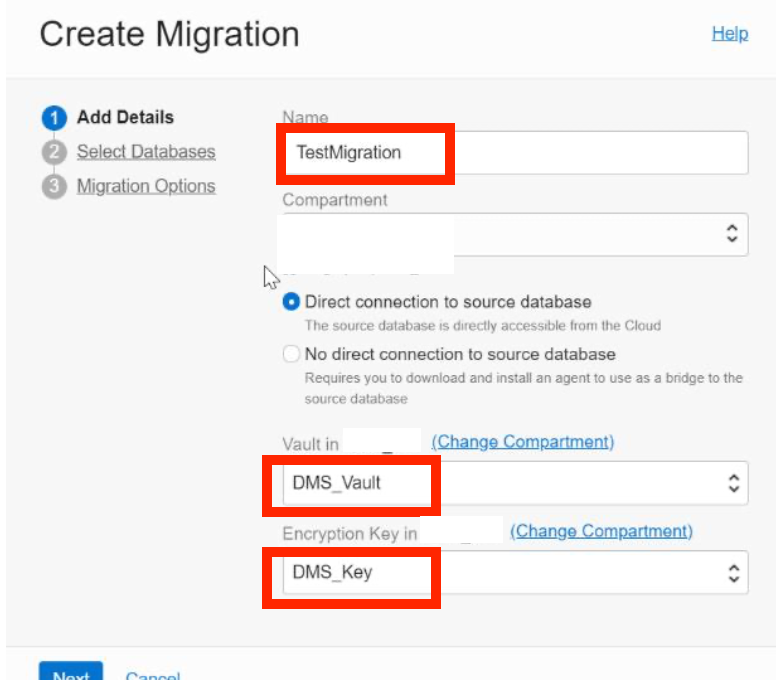
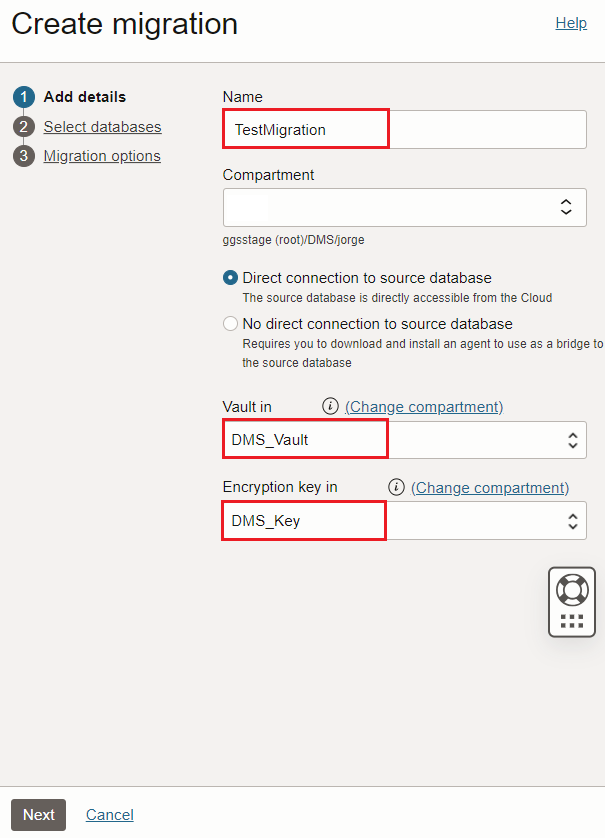
Functionality updated on WMS ID 6081 (#448)
* Removed one underscore

* Update validate-and-run-terraform.md

fixing one word

* QA completed

* Regular QA fixes

* Update validate-migration.md

Making some steps optional

* Changes on VCN name and added CPAT functionality

* Changes to reflect new functionality and navigation

* Changing the fist capital of an image

* Update introduction.md

* New features implemented and content change required

Registered databases now called Database Connections
GoldenGate Marketplace is replaced by GoldenGate service
ADB is now accessed thru the source base database

* Update manifest.json

updates lab number in manifest

* functionality updated

-Registered databases now is called Database connections
-SSH details are not needed in this lab
-ACL and SSL wallet steps added

diff --git a/dms/register-and-migrate/create-registered-databases.md b/dms/register-and-migrate/create-registered-databases.md
@@ -1,17 +1,17 @@
-# Create Registered Databases
+# Create Database Connections
 
 ## Introduction
 
-This lab walks you through the steps to register a database for use with DMS. Registered database resources enable networking and connectivity for the source and target databases
+This lab walks you through the steps to create a database connection to use with DMS. Database connection resources enable networking and connectivity for the source and target databases.
 
 Estimated Lab Time: 20 minutes
 
 ### Objectives
 
 In this lab, you will:
-* Create Registered Database for Source CDB
-* Create Registered Database for Source PDB
-* Create Registered Database for Target ADB
+* Create a database connection for Source CDB
+* Create a database connection for Source PDB
+* Create a database connection for Target ADB
 * Create a Migration
 
 ### Prerequisites
@@ -25,20 +25,20 @@ In this lab, you will:
 
 *Note: If you have a **Free Trial** account, when your Free Trial expires your account will be converted to an **Always Free** account. You will not be able to conduct Free Tier workshops unless the Always Free environment is available. **[Click here for the Free Tier FAQ page.](https://www.oracle.com/cloud/free/faq.html)***
 
-## Task 1: Create Registered Database for Source CDB
+## Task 1: Create a Database Connection for Source CDB
 
 For this task you need the following info from previous steps:
 * Source DB Private IP
 * Source DB CDB Service Name
 * Database Administrator Password
 
-1. In the OCI Console Menu ![menu hamburger](images/hamburger.png =22x22), go to **Migration & Disaster Recovery > Database Migration > Registered Databases**
+1. In the OCI Console Menu ![menu hamburger](images/hamburger.png =22x22), go to **Migration & Disaster Recovery > Database Migration > Database Connections**
 
-  ![registered database navigation](images/registered-db.png =90%x*)
+  ![registered database navigation](images/db-connection.png =50%x*)
 
-2. Press **Register Database**
+2. Press **Create Connection**
 
-  ![click Register Database](images/1-2.png =90%x*)
+  ![Screenshot of click register db](images/click-create-db.png =50%x*)
 
 3. On the page Database Details, fill in the following entries, otherwise leave defaults:
     - Name: **SourceCDB**
@@ -49,38 +49,36 @@ For this task you need the following info from previous steps:
     - Database: **sourcedb**
     - Connect String: Change existing string by replacing the qualified hostname with the **private IP** of the database node, for example:
         - **10.0.0.3**:1521/sourcedb_iad158.sub12062328210.vcndmsla.oraclevcn.com
-    - Subnet: Pick the Subnet that the DB is located in
+    - Subnet: Pick the Subnet that the DB is in
 
 4. Press **Next**
 
-  ![enter database details](images/1-4.png =50%x*)
+  ![Screenshot of register DB details and click next](images/create-db-next.png =50%x*)
 
 5. On the page Connection Details, fill in the following entries, otherwise leave defaults:
-    - Database Administrator Username: **system**
-    - Database Administrator Password: <*Admin password*>
-    - SSH Database Server Hostname: <*DB Node Private IP Address*>
-    - SSH Private Key: Select private key file
-    - SSH Username: **opc**
-    - SSH Sudo Location: **/usr/bin/sudo**
+    - Initial load database username: **system**
+    - Initial load database password: <*Admin password*>
+    - Dont Check **Use different credentials for replication**
 
-6. Press **Register**
+    
+6. Press **Create**
 
-  ![enter connection details](images/1-6.png =50%x*)
+  ![Screenshot confirm DB connection cration](images/create-db-confirm-initial-load.png =40%x*)
 
-## Task 2: Create Registered Database for Source PDB
+## Task 2: Create Database Connection for Source PDB
 
 For this task you need the following info from previous steps:
 * Source DB Private IP
 * Source DB PDB Service Name
 * Database Administrator Password
 
-1. In the OCI Console Menu ![hamburger icon](images/hamburger.png =22x22), go to **Migration & Disaster Recovery > Database Migration > Registered Databases**
+1. In the OCI Console Menu ![menu hamburger](images/hamburger.png =22x22), go to **Migration & Disaster Recovery > Database Migration > Database Connections**
 
-  ![registered database navigation](images/registered-db.png =90%x*)
+  ![registered database navigation](images/db-connection.png =50%x*)
 
-2. Press **Register Database**
+2. Press **Create connection**
 
-  ![click Register Database](images/1-2.png =90%x*)
+  ![Screenshot of click register db](images/click-create-db.png =50%x*)
 
 3. On the page Database Details, fill in the following entries, otherwise leave defaults:
     - Name: **SourcePDB**
@@ -95,32 +93,30 @@ For this task you need the following info from previous steps:
 
 4. Press **Next**
 
-  ![database details for PDB](images/2-4.png =50%x*)
+  ![Screenshot of register db](images/create-db-next-second.png =50%x*)
 
 5. On the page Connection Details, fill in the following entries, otherwise leave defaults:
-    - Database Administrator Username: **system**
-    - Database Administrator Password: <*Admin password*>
-    - SSH Database Server Hostname: <*DB Node Private IP Address*>
-    - SSH Private Key: Select **private** key file
-    - SSH Username: **opc**
-    - SSH Sudo Location: **/usr/bin/sudo**
+    - Initial load database username: **system**
+    - Initial load database password: <*Admin password*>
+    - Dont Check **Use different credentials for replication**
+    
 
-6. Press **Register**
+6. Press **Create**
 
-  ![connection details press register](images/1-6.png =50%x*)
+   ![Screenshot of  confirm register DB](images/create-db-confirm-initial-load.png =40%x*)
 
-## Task 3: Create Registered Database for Target ADB
+## Task 3: Create Database Connection for Target ADB
 
 For this task you need the following info from previous steps:
 * Database Administrator Password
 
-1. In the OCI Console Menu ![hamburger icon](images/hamburger.png =22x22), **Migration & Disaster Recovery > Database Migration > Registered Databases**
+1. In the OCI Console Menu ![menu hamburger](images/hamburger.png =22x22), go to **Migration & Disaster Recovery > Database Migration > Database Connections**
 
-  ![registered database navigation](images/registered-db.png =90%x*)
+  ![registered database navigation](images/db-connection.png =50%x*)
 
-2. Press **Register Database**
+2. Press **Create connection**
 
-  ![click Register Database](images/1-2.png =90%x*)
+   ![Screenshot of click register db](images/click-create-db.png =50%x*)
 
 3. On the page Database Details, fill in the following entries, otherwise leave defaults:
     - Name: **TargetATP**
@@ -131,43 +127,44 @@ For this task you need the following info from previous steps:
 
 4. Press **Next**
 
-  ![ATP database details](images/3-4.png =50%x*)
+  ![Screenshot of press next after entering details](images/target-press-next.png )
 
 5. On the page Connection Details, fill in the following entries, otherwise leave defaults:
-    - Database Administrator Username: **admin**
-    - Database Administrator Password: <*Admin password*>
+    - Initial load database username: **admin**
+    - Initial load database password: <*Admin password*>
+    - Dont Check **Use different credentials for replication**
 
-6. Press **Register**
+6. Press **Create**
 
-  ![connection details ATP](images/3-6.png =50%x*)
+  ![Screenshot of confirm db registration](images/confirm-target-connection-initial-load.png)
 
 
 ## Task 4: Create Migration
 
   1. In the OCI Console Menu ![hamburger icon](images/hamburger.png =22x22), go to **Migration & Disaster Recovery > Database Migration > Migrations**
 
-    ![create migration navigation](images/migration-create.png =90%x*)
+    ![create migration navigation](images/migration-create.png =50%x*)
 
   2. Press **Create Migration**
 
-    ![press create migration](images/2.png =90%x*)
+    ![Screenshot of press create migration](images/press-create-migration.png =50%x*)
 
   3. On the page **Add Details**, fill in the following entries, otherwise leave defaults:
       - Name: **TestMigration**
       - Vault: **DMS_Vault**
       - Encryption Key: **DMS_Key**
 
-      ![create migration details](images/add-details.png =40%x*)
+    ![Screenshot to add vault details](images/add-details.png )
 
   4. Press **Next**
 
   5. On the page **Select Databases**, fill in the following entries, otherwise leave defaults:
       - Source Database: **SourcePDB**
       - *Check* Database is pluggable database (PDB)
-      - Registered Container Database: **SourceCDB**
+      - Container Database connection: **SourceCDB**
       - Target Database: **TargetATP**
 
-      ![select databases](images/select-databases.png =40%x*)
+    ![Screenshot of source db selection](images/select-databases.png)
 
   6. On the page **Migration Options**, fill in the following entries, otherwise leave defaults:
       - In **Initial Load**, select **Datapump via Object Storage**
@@ -175,12 +172,14 @@ For this task you need the following info from previous steps:
       - Export Directory Object:
           - Name: **dumpdir**
           - Path: **/u01/app/oracle/dumpdir**
-      - *DO NOT Check* Use Online Replication
+      - Source Database file system SSL wallet path, we manually downloaded the required certificates in a previous lab:
+          - **/u01/app/oracle/dumpdir/wallet**
+      
+      - Dont Check **Use Online Replication**    
 
-          ![complete migration creation](images/Test-migration.png =40%x*)
-
-
-  7. Press **Create**
+      - Press Create to initiate the Migration creation    
+     
+    ![Screenshot for migration options](images/test-migration-1-offline.png )
 
 
 You may now [proceed to the next lab](#next).

diff --git a/dms/introduction/introduction.md b/dms/introduction/introduction.md
@@ -20,20 +20,21 @@ In the current release of DMS we support Oracle databases located on-premises, i
 |                  |  |     
 |--------------------------|-------------------------|
 | Source Databases | Oracle DB 11g, 12c, 18c, 19c, 21c: <br>on-premises, third-party cloud, OCI  |   
-| Target Databases | ADB serverless and dedicated <br> Co-managed Oracle Base Database (VM, BM)<br> Exadata on Oracle Public Cloud. |    
+| Target Databases | ADB serverless and dedicated <br> Co-managed Oracle Base Database (VM, BM)<br> Exadata on Oracle Public Cloud. |
+| Supported Source Environments | Oracle Cloud Infrastructure co-managed databases or on-premises environments<br>Amazon Web Services RDS Oracle Database<br> Linux-x86-64, IBM AIX<br>Oracle Solaris|        
 | Migration Modes  | Direct Access to Source <br>(VPN or Fast Connect) Indirect Access to Source <br>(Agent on Source Env) |                        |  
 | Initial Load <br> (Offline Migration) | Logical Migration using <br>Data Pump to Object Store <br>Data Pump using SQLnet |  |
-| Replication <br> (Online Migration) | GoldenGate Marketplace |
+| Replication <br> (Online Migration) | GoldenGate Integrated Service<br>GoldenGate Marketplace |
 
 The DMS service runs as a managed cloud service separate from the user's tenancy and resources. The service operates as a multitenant service in a DMS Service Tenancy and communicates with the user's resources using Private Endpoints (PEs). PEs are managed by DMS and are transparent to the user.
 
 ![DMS topology](images/dms-simplified-topology-2.png =80%x*)
 
-* **DMS Control Plane**: Used by DMS end user to manage Migration and Registered Database objects. The control plane is exposed through the DMS Console UI as well as the REST API.
+* **DMS Control Plane**: Used by DMS end user to manage Migration and Database Connection objects. The control plane is exposed through the DMS Console UI as well as the REST API.
 * **DMS Data Plane**: Managed by DMS Control Plane and transparent to the user. The GGS Data Plane manages ongoing migration jobs and communicates with the user's databases and GoldenGate instance using PEs. The DMS data plane does not store any customer data, as data flows through GoldenGate and Data Pump directly within the user's tenancy.
 * **Migration**: A Migration contains metadata for migrating one database. It contains information about source, target, and migration methods and is the central object for users to run migrations. After creating a migration, a user can validate the correctness of the environment and then run the migration to perform the copy of database data and schema metadata from source to target.
 * **Migration Job**: A Migration Job displays the state or a given Migration execution, either for validation or migration purposes. A job consists of a number of sequential phases, users can opt to wait after a given phase for user input to resume with the following phase.
-* **Registered Database**: A Registered Database represents information about a source or target database, such as connection and authentication credentials. DMS uses the OCI Vault to store credentials. A Registered Database is reusable across multiple Migrations.
+* **Database Connection**: A Database Connection represents information about a source or target database, such as connection and authentication credentials. DMS uses the OCI Vault to store credentials. A Database Connection is reusable across multiple Migrations.
 
 Estimated Lab Time: 180 minutes -- this estimate is for the entire workshop - it is the sum of the estimates provided for each of the labs included in the workshop.
 
@@ -46,7 +47,7 @@ In this lab, you will:
 * Create a Vault
 * Create Databases
 * Create an Object Storage Bucket
-* Create Registered Databases
+* Create Database Connections
 * Create, Validate, and Run a Migration
 
 ### Prerequisites

diff --git a/dms/create-source-database/create-source-database.md b/dms/create-source-database/create-source-database.md
@@ -100,7 +100,81 @@ The following task is *optional* if a source database is already present.
 
   ![Note the Public IP Address and Private IP Address ](images/source-db-ip-addresses.png)
 
-## Task 3: Adding Data to the Database
+## Task 3: Prepare SSL Certificates and Grant ACL Privileges
+
+For your source database connectivity, you must perform the following steps:
+
+1. Open a SSH terminal to the database instance. The instructions are for Unix-style ssh command:
+
+```
+    <copy> ssh -i <private_key_file> opc@<dbnode_public_ip> </copy>
+```
+
+2.  Switch from 'opc' user to user 'oracle' and create a new directory in the user volume, this directory will be used to store the SSL certificates: 
+```
+    <copy>
+    sudo su - oracle    
+    mkdir /u01/app/oracle/dumpdir/wallet
+
+    </copy>
+```
+3. Download a pre created SSL wallet using the following command:
+```
+    <copy>    
+    curl -o walletSSL.zip https://objectstorage.us-phoenix-1.oraclecloud.com/p/FSBC_LRRpLxcSuSM6yRjO9u1TDuDy8wuiawEIl8Q_xPYFmvap_tPFdtm_c6TskV_/n/axsdric7bk0y/b/SSL-Wallet-For-No-SSH-Migrations-Setup/o/walletSSL.zip
+
+    </copy>
+```
+4. Unzip the files:
+```
+    <copy>    
+    unzip walletSSL.zip
+    </copy>
+```
+5. Make sure these files are present in your desired directory path:
+
+    1. 2022 ewallet.p12.lck
+    2. cwallet.sso.lck
+    3. ewallet.p12
+    4. cwallet.sso
+    5. addedCertificates.txt
+
+
+6. Save this path location, you will need it during the migration creation, once there populate the SSL Wallet Path with it:
+
+    i.e: /u01/app/oracle/dumpdir/wallet
+
+7. The user performing the export or import requires the necessary network ACL to be granted to access the network from the source and target database host. For this guide, run the following commands as SYS if the export or import user is SYSTEM. Since your database is multitenant, the following actions need to be performed in CDB$ROOT. Replace clouduser and sslwalletdir accordingly:
+
+```
+    <copy>    
+    define clouduser='system';/*user performing export at source or import at target*/
+define sslwalletdir='/u01/app/oracle/dumpdir/wallet'; /* OCI wallet path*/
+BEGIN
+    dbms_network_acl_admin.append_host_ace(host => '*', lower_port => 443, upper_port => 443, ace => xs$ace_type(privilege_list => xs$name_list(
+    'http', 'http_proxy'), principal_name => upper('&clouduser'), principal_type => xs_acl.ptype_db));
+
+    dbms_network_acl_admin.append_wallet_ace(wallet_path => 'file:&sslwalletdir', ace => xs$ace_type(privilege_list => xs$name_list('use_client_certificates',
+    'use_passwords'), principal_name => upper('&clouduser'), principal_type => xs_acl.ptype_db));
+
+END;
+    </copy>
+```
+8. Once the connect privilege is granted, connect as the relevant user such as, SYSTEM, and verify if the privilege is granted using the following query:
+```
+    <copy>    
+    SELECT host, lower_port, upper_port, privilege, status 
+    FROM user_network_acl_privileges;
+
+    </copy>
+```
+
+You should see a similar output to the following:
+
+
+![grants output](./images/grants-output.png)  
+
+## Task 4: Adding Data to the Database
 
 1. Open a SSH terminal to the database instance. The instructions are for Unix-style ssh command:
 

diff --git a/dms/validate-and-run/validate-migration.md b/dms/validate-and-run/validate-migration.md
@@ -27,13 +27,13 @@ In this lab, you will:
 
 2. Select **TestMigration**
 
-  ![click on testMigration](images/2.png =90%x*)
+  ![click on testMigration](images/select-testmigration.png)
 
 3. If Migration is still being created, wait until Lifecycle State is Active
 
 4. Press **Validate** button
 
-  ![press validate](images/3.png =90%x*)
+  ![press validate](images/press-validate.png)
 
 5. Click on **Jobs** in left-hand **Resources** list
 
@@ -43,7 +43,7 @@ In this lab, you will:
 
 7. Click on **Phases** in left-hand **Resources** list
 
-  ![click phases menu](images/5.png =20%x*)
+  ![click phases menu](images/click-phases.png =17%x*)
 
 8. Phases will be shown and status will be updated as phases are completed. It can take 2 minutes before the first phase is shown.
     ![phases are displayed](images/Pump.png =90%x*)
@@ -58,11 +58,11 @@ In this lab, you will:
 
   1. In the OCI Console Menu ![hamburger icon](images/hamburger.png =22x22), go to **Migration & Disaster Recovery > Database Migration > Migrations**
 
-  ![migrations navigation](images/migration-create.png =90%x*)
+    ![create migration navigation](images/migration-create.png =50%x*)
 
   2. Select **TestMigration**
 
-    ![click on testmigration](images/2.png =90%x*)
+    ![Screenshot of select testmigration](images/select-testmigration.png =50%x*)
 
   3. Press **Start** to begin the Migration. Please note, if a dialog box appears, press **Start** in the dialog box  to begin the migration.
 
@@ -70,7 +70,7 @@ In this lab, you will:
 
   4. Click on **Jobs** in left-hand **Resources** list
 
-  5. Click on most recent Evaluation Job
+  5. Click on most recent Migration Job
 
   6. Click on **Phases** in left-hand **Resources** list
 
